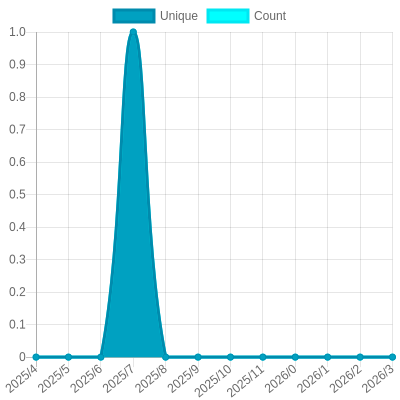
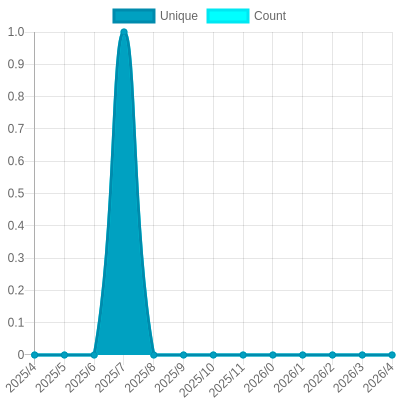
Update views

diff --git a/README.md b/README.md
@@ -26,7 +26,7 @@ The project created and maintained by [gayanvoice](https://github.com/gayanvoice
 			</a>
 		</td>
 		<td>
-			2025/4/29 12:20 AM UTC
+			2025/4/30 12:20 AM UTC
 		</td>
 		<td>
 			20
@@ -37,7 +37,7 @@ The project created and maintained by [gayanvoice](https://github.com/gayanvoice
 	</tr>
 </table>
 
-<small><i>Last updated on 2025/5/1 6:05 PM UTC</i></small>
+<small><i>Last updated on 2025/5/2 12:20 AM UTC</i></small>
 
 ## ✂Copy and 📋 Paste
 ### Total Views Badge

diff --git a/readme/278571140/year.md b/readme/278571140/year.md
@@ -20,6 +20,17 @@
 	</tr>
 	<tr>
 		<td>
+			<code>2025/5/1</code>
+		</td>
+		<td>
+			<code>0</code>
+		</td>
+		<td>
+			<code>0</code>
+		</td>
+	</tr>
+	<tr>
+		<td>
 			<code>2025/4/1</code>
 		</td>
 		<td>
@@ -153,7 +164,7 @@
 </table>
 
 </details>
-<small><i>Last updated on 2025/5/1 6:05 PM UTC</i></small>
+<small><i>Last updated on 2025/5/2 12:20 AM UTC</i></small>
 
 ## ✂Copy and 📋 Paste
 ### SVG Badge
